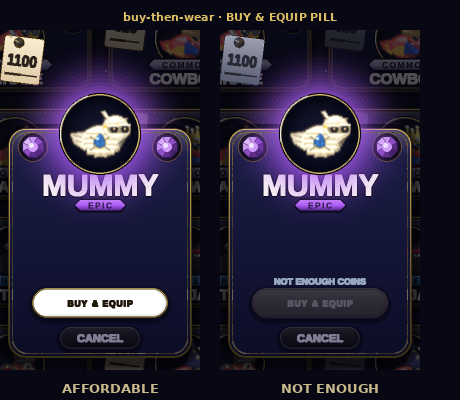
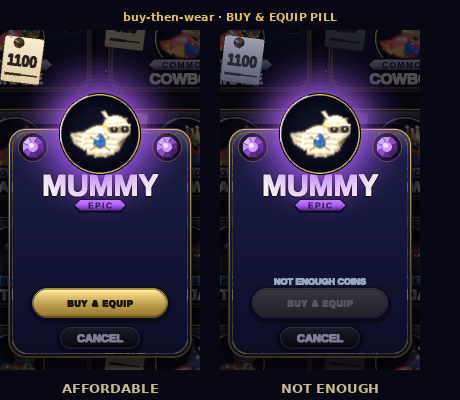
store confirm popup · buy-then-wear · round 1
Claude-Session: https://claude.ai/code/session_01DaGYw11VdAubog2VGiiucC

Changed region(s): [[0.0609, 0.72, 0.3652, 0.81]]

diff --git a/tools/_store_confirm_buy-then-wear_r1.py b/tools/_store_confirm_buy-then-wear_r1.py
@@ -31,6 +31,27 @@ import game.store_data as sd
 from game.config import W, H
 
 
+# The stock gloss_sweep blits pure-white (255,255,255,a) under BLEND_ADD, which
+# ignores source alpha — so on a saturated body it adds full white and blows the
+# fill out. Keep the sheen intensity in RGB magnitude instead (the same fix the
+# live dark-chip path uses) so the warm-gold pill reads gold, not white.
+def _gloss_sweep_add_safe(surf, rect, radius, peak=120):
+    sweep = pygame.Surface(rect.size, pygame.SRCALPHA)
+    h = max(1, rect.h)
+    for y in range(h):
+        v = int(peak * (1 - y / h) ** 2.4)
+        if v <= 0:
+            continue
+        pygame.draw.line(sweep, (v, v, v, 255), (0, y), (rect.w, y))
+    sm = pygame.Surface(rect.size, pygame.SRCALPHA)
+    pygame.draw.rect(sm, (255, 255, 255, 255), sm.get_rect(), border_radius=radius)
+    sweep.blit(sm, (0, 0), special_flags=pygame.BLEND_RGBA_MIN)
+    surf.blit(sweep, rect.topleft, special_flags=pygame.BLEND_ADD)
+
+
+sc.gloss_sweep = _gloss_sweep_add_safe
+
+
 # ── replacement _draw_confirm ─────────────────────────────────────────────────
 # A verbatim copy of StoreScene._draw_confirm whose ONLY change is the action
 # button: the equip status_chip is swapped for the buy-then-wear pill. Its
